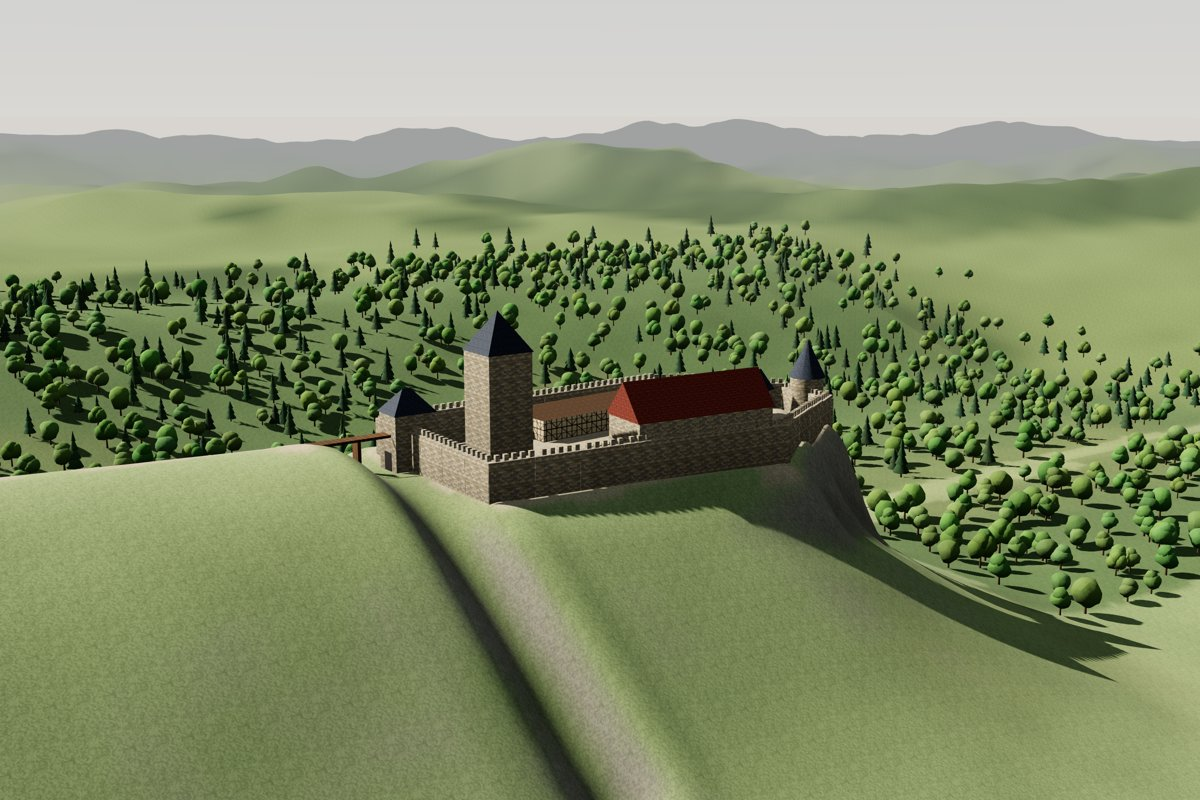
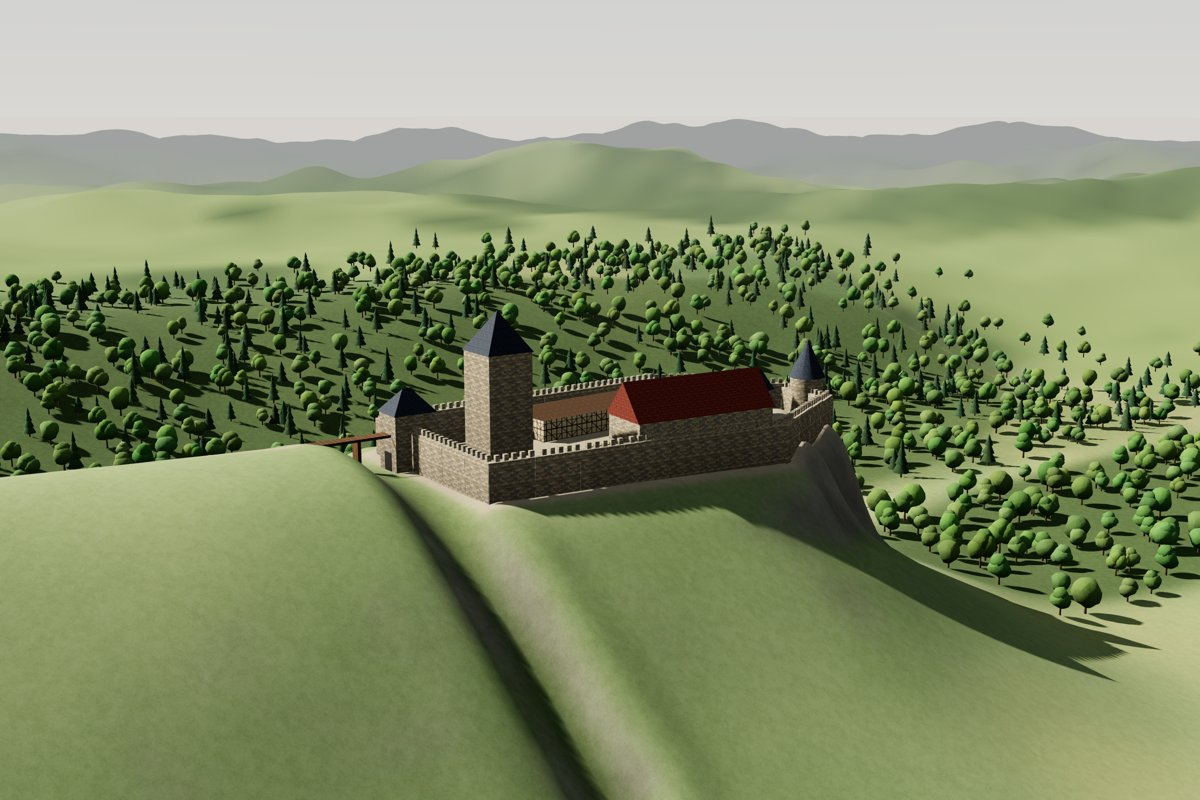
Burgenmaler: Boden aus Vektordaten gemalt, Gelände wirft Schatten
Wege, Ackerstreifen, Waldboden, Hofstellen, Burghof, Gräben und
Flussufer werden jetzt aus den Vektoren der castle.json in eine
Bodenkarte (ca. 0,2 m je Pixel) gemalt statt aus dem 10-m-Zellraster.
Wege sind geglättet, Äcker zeigen Streifen nach strip_width mit Rainen.
Gelände und Fernlandschaft werfen Schatten, die Schattenkamera deckt den
ganzen Ausschnitt ab.

Claude-Session: https://claude.ai/code/session_01YZHwSSyxVbD4VByEnoYAPu

diff --git a/burgenmaler/templates/schaubild.html b/burgenmaler/templates/schaubild.html
@@ -293,14 +293,6 @@ __THREE_SCRIPT__
       g.fillStyle = '#c8ccd0'; g.fillRect(0, 0, N, N); speckle(g, N, 30 * s, 0.08, 18);
       g.fillStyle = 'rgba(40,45,50,0.35)'; for (let x = 0; x < N; x += N / 4) g.fillRect(x, 0, 3 * s, N);
     });
-    TEX.ground = canvasTex(N, (g) => {
-      g.fillStyle = '#e4e4e4'; g.fillRect(0, 0, N, N); speckle(g, N, 14 * s, 0.22, 19);
-      const R = rng(81);
-      for (let k = 0; k < 2500 * s * s; k++) {
-        g.fillStyle = R() < 0.5 ? 'rgba(255,255,230,0.18)' : 'rgba(30,40,10,0.14)';
-        g.fillRect(R() * N, R() * N, 2 * s, 2 * s + R() * 5 * s);
-      }
-    });
     // Wellen-Normalmap fürs Wasser
     TEX.waves = canvasTex(256, (g, N) => {
       const img = g.createImageData(N, N), d = img.data;
@@ -347,35 +339,198 @@ __THREE_SCRIPT__
   const names = T.names, pal = T.palette.map(col);
   const kindIdx = Object.fromEntries(names.map((k, i) => [k, i]));
   const cellAt = (ci, cj) => T.cells[Math.max(0, Math.min(T.res - 1, cj)) * T.res + Math.max(0, Math.min(T.res - 1, ci))];
-  const GRASS = new Set(['wiese', 'weide', 'wald', 'garten', 'graben', 'weinberg'].map(k => kindIdx[k]));
-  const FIELD = new Set(['acker1', 'acker2', 'acker3'].map(k => kindIdx[k]));
-  const ROCK = col('#8f897d'), DRY = col('#b9b06e'), LUSH = col('#5f7d3e');
-  const WATERK = kindIdx.wasser;
+  const ROCK = '#8f897d';
 
-  function terrainColor(x, y, gx, gy, curv, out) {
-    // Nutzung: nächste Zelle mit verrauschter Grenze, gemischt mit weichem Übergang
-    const jx = (fbm(x * 0.045, y * 0.045, 3) - 0.5) * 1.1, jy = (fbm(x * 0.045 + 31, y * 0.045 - 7, 3) - 0.5) * 1.1;
-    const fx = (x + e) / dx + jx, fy = (y + e) / dx + jy;
-    const k = cellAt(Math.floor(fx), Math.floor(fy));
-    out.copy(pal[k]);
-    const bx = (x + e) / dx - 0.5, by = (y + e) / dx - 0.5, i0 = Math.floor(bx), j0 = Math.floor(by), tx = bx - i0, ty = by - j0;
-    const c00 = pal[cellAt(i0, j0)], c10 = pal[cellAt(i0 + 1, j0)], c01 = pal[cellAt(i0, j0 + 1)], c11 = pal[cellAt(i0 + 1, j0 + 1)];
-    const blur = new THREE.Color(
-      (c00.r * (1 - tx) + c10.r * tx) * (1 - ty) + (c01.r * (1 - tx) + c11.r * tx) * ty,
-      (c00.g * (1 - tx) + c10.g * tx) * (1 - ty) + (c01.g * (1 - tx) + c11.g * tx) * ty,
-      (c00.b * (1 - tx) + c10.b * tx) * (1 - ty) + (c01.b * (1 - tx) + c11.b * tx) * ty);
-    out.lerp(blur, FIELD.has(k) ? 0.15 : 0.4);
-    const big = fbm(x * 0.012, y * 0.012, 4), mid = fbm(x * 0.06 + 11, y * 0.06, 3);
-    if (GRASS.has(k)) {
-      out.lerp(big > 0.5 ? DRY : LUSH, Math.abs(big - 0.5) * 0.5);
-    } else if (FIELD.has(k)) {
-      // Furchen quer zur Streifenrichtung andeuten
-      out.multiplyScalar(0.94 + 0.08 * Math.sin((x * 0.7 + y * 0.5) + mid * 3));
+  // ---------------------------------------------------------------------------
+  // Bodenkarte: Nutzung aus den Vektordaten der castle.json gemalt (≈ 0,2 m je Pixel)
+  // statt aus dem 10-m-Zellraster – Wege, Feldstreifen und Ränder bleiben scharf.
+  // ---------------------------------------------------------------------------
+  const V = S.vec || { env: {}, plateau: null, ditches: [] };
+  const GS = Math.min(small ? 2048 : 4096, maxTex), pxm = GS / ext;   // Pixel je Meter
+  const PX = (x, y) => [(x + e) * pxm, (e - y) * pxm];
+  function chaikin(pts, closed, it) {
+    let p = pts.map(q => [q[0], q[1]]);
+    for (let k = 0; k < (it || 3); k++) {
+      const out = closed ? [] : [p[0]];
+      const m = closed ? p.length : p.length - 1;
+      for (let i = 0; i < m; i++) {
+        const a = p[i], b = p[(i + 1) % p.length];
+        out.push([a[0] * 0.75 + b[0] * 0.25, a[1] * 0.75 + b[1] * 0.25], [a[0] * 0.25 + b[0] * 0.75, a[1] * 0.25 + b[1] * 0.75]);
+      }
+      if (!closed) out.push(p[p.length - 1]);
+      p = out;
     }
-    const slope = Math.hypot(gx, gy);
-    if (k !== WATERK) out.lerp(ROCK, smooth(0.55, 1.05, slope + (mid - 0.5) * 0.4) * 0.9);
-    out.multiplyScalar((0.9 + 0.2 * mid) * Math.max(0.78, Math.min(1.1, 1 + curv)));
-    return out;
+    return p;
+  }
+  function tracePath(g, pts, closed) {
+    g.beginPath();
+    pts.forEach((q, i) => { const [u, v] = PX(q[0], q[1]); i ? g.lineTo(u, v) : g.moveTo(u, v); });
+    if (closed) g.closePath();
+  }
+  function lowNoiseCanvas(N, f, seed) {
+    const c = document.createElement('canvas'); c.width = c.height = N;
+    const g = c.getContext('2d'), img = g.createImageData(N, N), d = img.data;
+    for (let j = 0; j < N; j++) for (let i = 0; i < N; i++) {
+      const x = -e + (i + 0.5) / N * ext, y = e - (j + 0.5) / N * ext, k = (j * N + i) * 4;
+      const v = f(x, y, seed);
+      d[k] = v[0]; d[k + 1] = v[1]; d[k + 2] = v[2]; d[k + 3] = v[3];
+    }
+    g.putImageData(img, 0, 0);
+    return c;
+  }
+  const mainAxis = poly => {
+    let best = -1, ax = [1, 0];
+    poly.forEach((p, i) => {
+      const q = poly[(i + 1) % poly.length], L = Math.hypot(q[0] - p[0], q[1] - p[1]);
+      if (L > best) { best = L; ax = [(q[0] - p[0]) / L, (q[1] - p[1]) / L]; }
+    });
+    return ax;
+  };
+  const blurOK = (() => { const g = document.createElement('canvas').getContext('2d'); g.filter = 'blur(2px)'; return g.filter === 'blur(2px)'; })();
+  function soft(g, px, fn) { if (blurOK) g.filter = 'blur(' + Math.max(0.5, px) + 'px)'; fn(); g.filter = 'none'; }
+
+  const CROPS = ['#c9b46a', '#d6c27a', '#a9a65a', '#9a8a5c', '#b8a05e', '#8f9a52', '#c2a86c'];
+  function paintGround(slopeMask) {
+    const c = document.createElement('canvas'); c.width = c.height = GS;
+    const g = c.getContext('2d');
+    // 1. Grundfarbe aus dem Zellraster (Hof, Graben, Fels …) – stark weichgezeichnet;
+    //    Nutzungen mit Vektordaten werden darüber neu gemalt
+    const neutral = { weg: 'wiese', acker1: 'wiese', acker2: 'wiese', acker3: 'wiese', siedlung: 'wiese', wasser: 'graben' };
+    const cellC = names.map(k => new THREE.Color(T.palette[names.indexOf(neutral[k] || k)]));
+    const base = document.createElement('canvas'); base.width = base.height = T.res;
+    const bg = base.getContext('2d'), bi = bg.createImageData(T.res, T.res);
+    for (let j = 0; j < T.res; j++) for (let i = 0; i < T.res; i++) {
+      const cc = cellC[T.cells[j * T.res + i]], k = ((T.res - 1 - j) * T.res + i) * 4;
+      bi.data[k] = cc.r * 255; bi.data[k + 1] = cc.g * 255; bi.data[k + 2] = cc.b * 255; bi.data[k + 3] = 255;
+    }
+    bg.putImageData(bi, 0, 0);
+    g.imageSmoothingEnabled = true; g.imageSmoothingQuality = 'high';
+    soft(g, dx * pxm * 0.6, () => g.drawImage(base, 0, 0, GS, GS));
+    // 2. großflächiges Farbspiel der Wiesen (trocken/frisch)
+    g.globalAlpha = 0.45;
+    g.drawImage(lowNoiseCanvas(256, (x, y) => {
+      const b = fbm(x * 0.008, y * 0.008, 4), m = fbm(x * 0.03 + 5, y * 0.03, 3);
+      return b > 0.5 ? [196, 186, 118, Math.min(255, (b - 0.5) * 900)] : [82, 112, 52, Math.min(255, (0.5 - b) * 700 + m * 40)];
+    }), 0, 0, GS, GS);
+    g.globalAlpha = 1;
+
+    const env = V.env || {}, R = rng(123);
+    // 3. Flur: Wiesen, Weiden, Weinberge, Gärten, Äcker in Streifen
+    (env.fields || []).forEach((f, fi) => {
+      const poly = f.polygon, kind = f.kind || 'acker';
+      g.save(); tracePath(g, poly, true); g.clip();
+      if (kind === 'acker') {
+        const [ux, uy] = mainAxis(poly), vx = -uy, vy = ux, w0 = f.strip_width || 14;
+        const vs = poly.map(p => p[0] * vx + p[1] * vy), us = poly.map(p => p[0] * ux + p[1] * uy);
+        const v0 = Math.min(...vs), v1 = Math.max(...vs), u0 = Math.min(...us) - 20, u1 = Math.max(...us) + 20;
+        let v = v0, k = 0;
+        while (v < v1) {
+          const w = w0 * (0.75 + 0.5 * hash2(fi * 31 + k, 7));
+          const quad = [[u0, v], [u1, v], [u1, v + w], [u0, v + w]].map(([a, b]) => [a * ux + b * vx, a * uy + b * vy]);
+          g.fillStyle = CROPS[Math.floor(hash2(fi * 17 + k, 3) * CROPS.length)];
+          tracePath(g, quad, true); g.fill();
+          // Furchen in Streifenrichtung
+          g.strokeStyle = 'rgba(60,45,20,0.10)'; g.lineWidth = Math.max(1, 0.25 * pxm);
+          for (let t = v + 0.8; t < v + w - 0.4; t += 0.9) {
+            tracePath(g, [[u0 * ux + t * vx, u0 * uy + t * vy], [u1 * ux + t * vx, u1 * uy + t * vy]], false); g.stroke();
+          }
+          // Ackerrain zwischen den Streifen
+          g.strokeStyle = 'rgba(110,130,70,0.75)'; g.lineWidth = 0.7 * pxm;
+          tracePath(g, [quad[0], quad[1]], false); g.stroke();
+          v += w; k++;
+        }
+      } else {
+        const tone = { wiese: '#8ea366', weide: '#9aab6c', weinberg: '#8a8a52', garten: '#7f9c55' }[kind] || '#8ea366';
+        soft(g, 3 * pxm, () => { g.fillStyle = tone; g.globalAlpha = 0.45; tracePath(g, poly, true); g.fill(); g.globalAlpha = 1; });
+        if (kind === 'weinberg' || kind === 'garten') {
+          const [ux, uy] = mainAxis(poly), vx = -uy, vy = ux, gap = kind === 'weinberg' ? 1.8 : 3.5;
+          const vs = poly.map(p => p[0] * vx + p[1] * vy), us = poly.map(p => p[0] * ux + p[1] * uy);
+          g.strokeStyle = kind === 'weinberg' ? 'rgba(50,70,30,0.6)' : 'rgba(90,70,40,0.35)'; g.lineWidth = 0.7 * pxm;
+          for (let t = Math.min(...vs); t < Math.max(...vs); t += gap) {
+            const a = Math.min(...us), b = Math.max(...us);
+            tracePath(g, [[a * ux + t * vx, a * uy + t * vy], [b * ux + t * vx, b * uy + t * vy]], false); g.stroke();
+          }
+        }
+      }
+      g.restore();
+      // Feldrain außen (nur Äcker; Wiesen und Weiden gehen weich über)
+      if (kind === 'acker') { g.strokeStyle = 'rgba(105,125,68,0.8)'; g.lineWidth = 1.6 * pxm; tracePath(g, poly, true); g.stroke(); }
+    });
+    // 4. Waldboden, weich auslaufend
+    (env.forest || []).forEach(fo => soft(g, 4 * pxm, () => {
+      g.fillStyle = 'rgba(78,96,52,0.85)'; tracePath(g, chaikin(fo.polygon, true, 2), true); g.fill();
+    }));
+    // 5. Siedlungsflächen: Hofstellen, festgetretener Boden
+    (env.settlements || []).forEach(st => soft(g, 3 * pxm, () => {
+      g.fillStyle = 'rgba(150,136,104,0.75)'; tracePath(g, chaikin(st.polygon, true, 2), true); g.fill();
+    }));
+    // 6. Gräben
+    (V.ditches || []).forEach(dt => soft(g, 1.5 * pxm, () => {
+      g.strokeStyle = dt.water ? 'rgba(96,104,76,0.9)' : 'rgba(104,122,70,0.9)'; g.lineWidth = dt.width * pxm;
+      g.lineCap = g.lineJoin = 'round'; tracePath(g, chaikin(dt.path, dt.closed, 2), dt.closed); g.stroke();
+    }));
+    // 7. Burghof: Kies und Erde
+    if (V.plateau) soft(g, 0.8 * pxm, () => {
+      g.fillStyle = '#ad9f84'; tracePath(g, V.plateau, true); g.fill();
+    });
+    // 8. Flussufer (nass, kiesig) unter dem Wasserband
+    (env.rivers || []).forEach(rv => {
+      const pts = chaikin(rv.path, false, 3), w = rv.width || 10;
+      g.lineCap = g.lineJoin = 'round';
+      soft(g, 2 * pxm, () => { g.strokeStyle = 'rgba(122,118,92,0.9)'; g.lineWidth = (w + 3) * pxm; tracePath(g, pts, false); g.stroke(); });
+      g.strokeStyle = 'rgba(70,74,60,0.9)'; g.lineWidth = w * pxm; tracePath(g, pts, false); g.stroke();
+    });
+    // 9. Fels an Steilhängen (Maske aus dem Höhenmodell)
+    soft(g, 1.5 * pxm, () => g.drawImage(slopeMask, 0, 0, GS, GS));
+    // 10. Wege: geglättet, mit Bankett, Fahrspuren und Grasnarbe in der Mitte
+    (env.roads || []).forEach(rd => {
+      const pts = chaikin(rd.path, false, 4), w = rd.width || 4;
+      g.lineCap = g.lineJoin = 'round';
+      // Bankett: niedergetretenes, staubiges Gras
+      soft(g, 2 * pxm, () => { g.strokeStyle = 'rgba(168,158,118,0.55)'; g.lineWidth = (w + 3) * pxm; tracePath(g, pts, false); g.stroke(); });
+      // Fahrbahn: Erde mit Kies, Breite nach castle.json
+      soft(g, 0.6 * pxm, () => { g.strokeStyle = '#b29f80'; g.lineWidth = w * pxm; tracePath(g, pts, false); g.stroke(); });
+      // Fahrspuren nur angedeutet
+      for (const off of [-0.25, 0.25]) soft(g, 0.4 * pxm, () => {
+        g.strokeStyle = 'rgba(110,92,68,0.16)'; g.lineWidth = Math.max(1, 0.6 * pxm); tracePath(g, offsetPath(pts, off * w), false); g.stroke();
+      });
+    });
+    // 11. Körnung: feines Rauschen über alles
+    const grain = document.createElement('canvas'); grain.width = grain.height = 256;
+    const gg = grain.getContext('2d'), gi = gg.createImageData(256, 256);
+    for (let k = 0; k < gi.data.length; k += 4) {
+      const p = k / 4, v = 128 + (R() - 0.5) * 70 + (fbm((p % 256) / 6, (p >> 8) / 6, 2) - 0.5) * 90;
+      gi.data[k] = gi.data[k + 1] = gi.data[k + 2] = v; gi.data[k + 3] = 255;
+    }
+    gg.putImageData(gi, 0, 0);
+    g.globalCompositeOperation = 'soft-light'; g.globalAlpha = 0.3;
+    g.fillStyle = g.createPattern(grain, 'repeat'); g.fillRect(0, 0, GS, GS);
+    g.globalCompositeOperation = 'source-over'; g.globalAlpha = 1;
+    return c;
+  }
+  function offsetPath(pts, o) {
+    return pts.map((p, i) => {
+      const a = pts[Math.max(0, i - 1)], b = pts[Math.min(pts.length - 1, i + 1)];
+      const tx = b[0] - a[0], ty = b[1] - a[1], L = Math.hypot(tx, ty) || 1;
+      return [p[0] - ty / L * o, p[1] + tx / L * o];
+    });
+  }
+  let groundCanvas = null, edgeStrips = null;
+  // Farbe am Rand der Bodenkarte (für den Übergang in die ferne Landschaft)
+  function edgeColor(x, y, out) {
+    if (!edgeStrips) {
+      const g = groundCanvas.getContext('2d');
+      edgeStrips = { s: g.getImageData(0, GS - 2, GS, 1).data, n: g.getImageData(0, 1, GS, 1).data,
+        w: g.getImageData(1, 0, 1, GS).data, o: g.getImageData(GS - 2, 0, 1, GS).data };
+    }
+    const [u, v] = PX(x, y), cl = t => Math.max(0, Math.min(GS - 1, Math.round(t)));
+    let d, k;
+    if (y <= -e + 1e-6) { d = edgeStrips.s; k = cl(u); } else if (y >= e - 1e-6) { d = edgeStrips.n; k = cl(u); }
+    else if (x <= -e + 1e-6) { d = edgeStrips.w; k = cl(v); } else { d = edgeStrips.o; k = cl(v); }
+    // ±8 px mitteln
+    let r = 0, gg = 0, b = 0, c = 0;
+    for (let q = Math.max(0, k - 8); q <= Math.min(GS - 1, k + 8); q++) { r += d[q * 4]; gg += d[q * 4 + 1]; b += d[q * 4 + 2]; c++; }
+    return out.setRGB(r / c / 255, gg / c / 255, b / c / 255).convertSRGBToLinear();
   }
 
   const terrainN = T.res * Math.max(1, Math.min(small ? 2 : 4, Math.round(dx / 2.2), Math.floor((small ? 260 : 520) / T.res)));
@@ -385,16 +540,24 @@ __THREE_SCRIPT__
     const hh = new Float32Array(M * M);
     for (let j = 0; j < M; j++) for (let i = 0; i < M; i++) hh[j * M + i] = heightAt(-e + i * step, -e + j * step);
     const H = (i, j) => hh[Math.max(0, Math.min(M - 1, j)) * M + Math.max(0, Math.min(M - 1, i))];
-    const c = new THREE.Color();
+    // Felsmaske (Nord oben) aus der Neigung
+    const mask = document.createElement('canvas'); mask.width = mask.height = M;
+    const mg = mask.getContext('2d'), mi = mg.createImageData(M, M), rock = new THREE.Color(ROCK);
     for (let j = 0; j < M; j++) for (let i = 0; i < M; i++) {
       const x = -e + i * step, y = -e + j * step, z = H(i, j), k = j * M + i;
       const gx = (H(i + 1, j) - H(i - 1, j)) / (2 * step), gy = (H(i, j + 1) - H(i, j - 1)) / (2 * step);
       const s2 = Math.max(step, 3);
       const lap = (heightAt(x + s2, y) + heightAt(x - s2, y) + heightAt(x, y + s2) + heightAt(x, y - s2) - 4 * z) / (s2 * s2);
-      terrainColor(x, y, gx, gy, -lap * 0.9, c);
-      const g = toGL(x, y, z);
-      pos.set(g, k * 3); colr.set([c.r, c.g, c.b], k * 3); uv.set([x / 9, y / 9], k * 2);
+      const mid = fbm(x * 0.06 + 11, y * 0.06, 3);
+      const a = smooth(0.6, 1.1, Math.hypot(gx, gy) + (mid - 0.5) * 0.45) * 0.92, q = ((M - 1 - j) * M + i) * 4;
+      const sh = 0.8 + 0.4 * fbm(x * 0.2, y * 0.2, 2);
+      mi.data[q] = rock.r * 255 * sh; mi.data[q + 1] = rock.g * 255 * sh; mi.data[q + 2] = rock.b * 255 * sh; mi.data[q + 3] = a * 255;
+      // Eckenverschattung: Mulden dunkler, Kuppen etwas heller
+      const ao = Math.max(0.8, Math.min(1.08, 1 - lap * 0.9));
+      pos.set(toGL(x, y, z), k * 3); colr.set([ao, ao, ao], k * 3); uv.set([(x + e) / ext, (y + e) / ext], k * 2);
     }
+    mg.putImageData(mi, 0, 0);
+    groundCanvas = paintGround(mask);
     const idx = [];
     for (let j = 0; j < N; j++) for (let i = 0; i < N; i++) {
       const a = j * M + i, b = a + 1, d = a + M, cc = d + 1;
@@ -440,7 +603,7 @@ __THREE_SCRIPT__
         const z = skirtZ(eh[i], bh[i], hills, d, t);
         const w = fbm(x * 0.004 + 3, y * 0.004, 3);
         far.copy(base).lerp(wood, smooth(0.42, 0.58, w)).multiplyScalar(0.85 + 0.2 * fbm(x * 0.02, y * 0.02, 2));
-        terrainColor(ex, ey, 0, 0, 0, c).lerp(far, smooth(0, ext * 0.08, d));
+        edgeColor(ex, ey, c).multiplyScalar(0.8).lerp(far, smooth(0, ext * 0.08, d));
         pos.push(...toGL(x, y, z)); colr.push(c.r, c.g, c.b); uv.push(x / 9, y / 9);
       });
     }
@@ -645,7 +808,7 @@ __THREE_SCRIPT__
     const L = LIGHTS[name] || LIGHTS.zeichnung;
     const A = L.az * Math.PI / 180, E = L.el * Math.PI / 180;
     const d = new THREE.Vector3(Math.sin(A) * Math.cos(E), Math.sin(E), -Math.cos(A) * Math.cos(E));
-    const half = Math.min(e, Math.max(radius * 3, 320));
+    const half = e * 1.05; // ganzer Ausschnitt, damit auch Hügel und Wald Schatten werfen
     sun.color.set(L.sun); sun.intensity = L.int;
     sun.position.copy(center).addScaledVector(d, ext * 1.5); sun.target.position.copy(center);
     const sc = sun.shadow.camera;
@@ -670,14 +833,16 @@ __THREE_SCRIPT__
   const current = { light: 'zeichnung' };
   function build() {
     makeTextures();
-    TEX.ground.repeat.set(1, 1);
-    const terrain = new THREE.Mesh(buildTerrain(), new THREE.MeshStandardMaterial({
-      vertexColors: true, map: TEX.ground, roughness: 0.97, envMapIntensity: 0.3 }));
-    terrain.receiveShadow = true;
+    const tGeo = buildTerrain();
+    const groundTex = new THREE.CanvasTexture(groundCanvas);
+    groundTex.encoding = THREE.sRGBEncoding; groundTex.anisotropy = aniso;
+    const terrain = new THREE.Mesh(tGeo, new THREE.MeshStandardMaterial({
+      color: new THREE.Color(0.8, 0.8, 0.8), vertexColors: true, map: groundTex, roughness: 0.97, envMapIntensity: 0.3 }));
+    terrain.receiveShadow = true; terrain.castShadow = true;  // Hänge verschatten einander
     scene.add(terrain);
     const skirt = new THREE.Mesh(buildSkirt(terrainN), new THREE.MeshStandardMaterial({
-      vertexColors: true, map: TEX.ground, roughness: 1, envMapIntensity: 0.3 }));
-    skirt.receiveShadow = true;
+      vertexColors: true, roughness: 1, envMapIntensity: 0.3 }));
+    skirt.receiveShadow = true; skirt.castShadow = true;
     scene.add(skirt, envGroup, burgGroup);
 
     for (const o of S.objects) {
@@ -928,6 +1093,7 @@ __THREE_SCRIPT__
       requestAnimationFrame(loop);
     })();
     window.__burgenmaler = { setView, setCamera, setLight, setBefund, setEnv, st, ready: true,
+      groundMap: () => groundCanvas.toDataURL('image/jpeg', 0.9),
       render: () => renderer.render(scene, camera),
       snapshot: () => { renderer.render(scene, camera); return canvas.toDataURL('image/png'); } };
   }, 30));

diff --git a/burgenmaler/scripts/paint.py b/burgenmaler/scripts/paint.py
@@ -49,20 +49,34 @@ def load_modules(path):
     return castle_lib, build_model
 
 
-def payload(scene, castle_lib, build_model):
-    """Viewer-Daten des Burgenmeisters plus Werkstoffnamen je Teil (für die Texturwahl)."""
+def vector_data(castle):
+    """Umgebung, Burghof und Gräben als Vektoren, damit der Boden scharf gemalt werden kann."""
+    site = (castle or {}).get("site") or {}
+    env = site.get("environment") or {}
+    keep = ("fields", "forest", "settlements", "roads", "rivers", "water")
+    ditches = [{"path": [p[:2] for p in el["path"]], "width": float(el.get("width", 12)),
+                "closed": bool(el.get("closed")), "water": bool(el.get("water"))}
+               for el in (castle or {}).get("elements", []) if el.get("type") == "ditch" and el.get("path")]
+    plateau = (site.get("plateau") or {}).get("polygon")
+    return {"env": {k: env[k] for k in keep if env.get(k)}, "plateau": plateau, "ditches": ditches}
+
+
+def payload(scene, castle_lib, build_model, castle=None):
+    """Viewer-Daten des Burgenmeisters plus Werkstoffnamen je Teil (für die Texturwahl)
+    und die Vektordaten der Umgebung (für die Bodenkarte)."""
     data = build_model.viewer_payload(scene)
     by_color = {v.lower(): k for k, v in castle_lib.MATERIALS.items()}
     for obj in data["objects"]:
         for part in obj["parts"]:
             part["m"] = by_color.get(part["c"].lower())
+    data["vec"] = vector_data(castle)
     return data
 
 
-def write_schaubild(scene, path, castle_lib, build_model, three_js=None, template=TEMPLATE):
+def write_schaubild(scene, path, castle_lib, build_model, three_js=None, template=TEMPLATE, castle=None):
     with open(template, encoding="utf-8") as f:
         html = f.read()
-    data = json.dumps(payload(scene, castle_lib, build_model), ensure_ascii=False, separators=(",", ":"))
+    data = json.dumps(payload(scene, castle_lib, build_model, castle), ensure_ascii=False, separators=(",", ":"))
     data = data.replace("</", "<\\/")
     if three_js:
         with open(three_js, encoding="utf-8") as f:
@@ -85,9 +99,10 @@ def main(argv=None):
     ap.add_argument("--burgenmeier", help="Pfad zum Burgenmeister-Skill oder dessen scripts/")
     a = ap.parse_args(argv)
     cl, bm = load_modules(find_burgenmeier(a.burgenmeier))
-    scene = cl.build_scene(cl.load_castle(a.castle))
+    castle = cl.load_castle(a.castle)
+    scene = cl.build_scene(castle)
     out = a.out or os.path.splitext(a.castle)[0] + "_schaubild.html"
-    print("Schaubild:", write_schaubild(scene, out, cl, bm, a.three))
+    print("Schaubild:", write_schaubild(scene, out, cl, bm, a.three, castle=castle))
 
 
 if __name__ == "__main__":

diff --git a/tests/test_burgenmaler.py b/tests/test_burgenmaler.py
@@ -26,6 +26,9 @@ def test_schaubild_html(tmp_path):
     parts = [p for o in data["objects"] for p in o["parts"]]
     assert {"stone", "slate", "tile"} <= {p["m"] for p in parts}
     assert all(p["r"] != "roof" or p["m"] for p in parts if p["c"].startswith("#"))
+    vec = data["vec"]
+    assert vec["env"]["roads"] and vec["env"]["fields"] and vec["plateau"]
+    assert vec["ditches"][0]["width"] > 0
 
 
 def test_three_inline(tmp_path):

diff --git a/burgenmaler/SKILL.md b/burgenmaler/SKILL.md
@@ -53,13 +53,14 @@ Playwright/Chromium.
 
 | Bereich | Darstellung |
 |---|---|
-| Gelände | bikubisch verfeinert und weich schattiert, Fels an steilen Hängen, Wiese mit Farbspiel, verrauschte Nutzungsgrenzen, Mulden dunkler; der Ausschnitt geht in eine ferne Hügellandschaft über |
+| Gelände | bikubisch verfeinert, weich schattiert und mit Eigenschatten der Hänge; Mulden dunkler; der Ausschnitt geht in eine ferne Hügellandschaft über |
+| Boden | eine Bodenkarte (≈ 0,2 m je Pixel), direkt aus den Vektoren der `castle.json` gemalt: geglättete Wege mit Bankett, Ackerstreifen nach `strip_width` mit Furchen und Rainen, Waldboden, Hofstellen, Burghof, Gräben, Flussufer, Fels an Steilhängen |
 | Mauern | im Browser gemaltes Bruchstein-, Ziegel-, Putz-, Fachwerk- und Holzmuster nach `material`, Relief, dunklerer Mauerfuß, Rundtürme geglättet |
 | Dächer | Biberschwanz, Schiefer, Schindel, Stroh, Blei nach `roof_material` |
 | Wasser | spiegelnd mit bewegten Wellen |
 | Bäume | mehrere Kronenformen je Art, gestufte Nadelbäume, Farbstreuung je Baum; Wald läuft über den Rand hinaus aus |
 | Licht | Himmel mit Sonne, weiche Schatten, Himmelslicht, Luftperspektive, Filmkurve (ACES) |
 
-Grenzen: keine Fenster, Erker oder Wehrgänge, solange `castle.json` sie nicht enthält; Felder bleiben
-an das Zellraster des Geländes gebunden. Fotorealismus (Blender, Pfadverfolgung) ist nicht Teil
+Grenzen: keine Fenster, Erker oder Wehrgänge, solange `castle.json` sie nicht enthält. Wege werden
+aufs Gelände gemalt, nicht eingeschnitten. Fotorealismus (Blender, Pfadverfolgung) ist nicht Teil
 dieses Skills.
